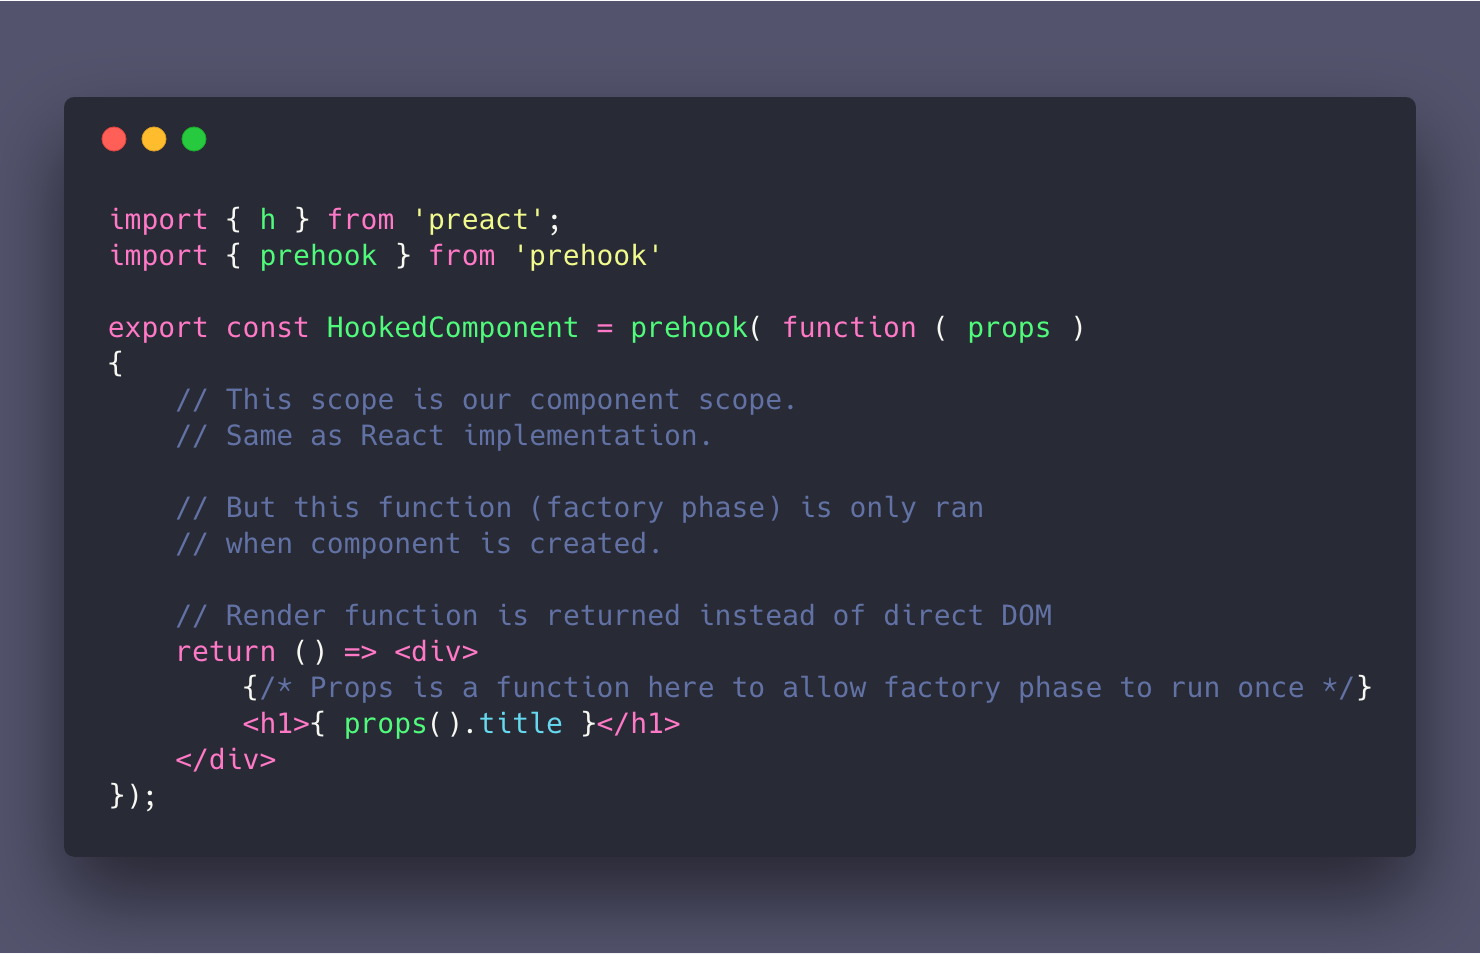
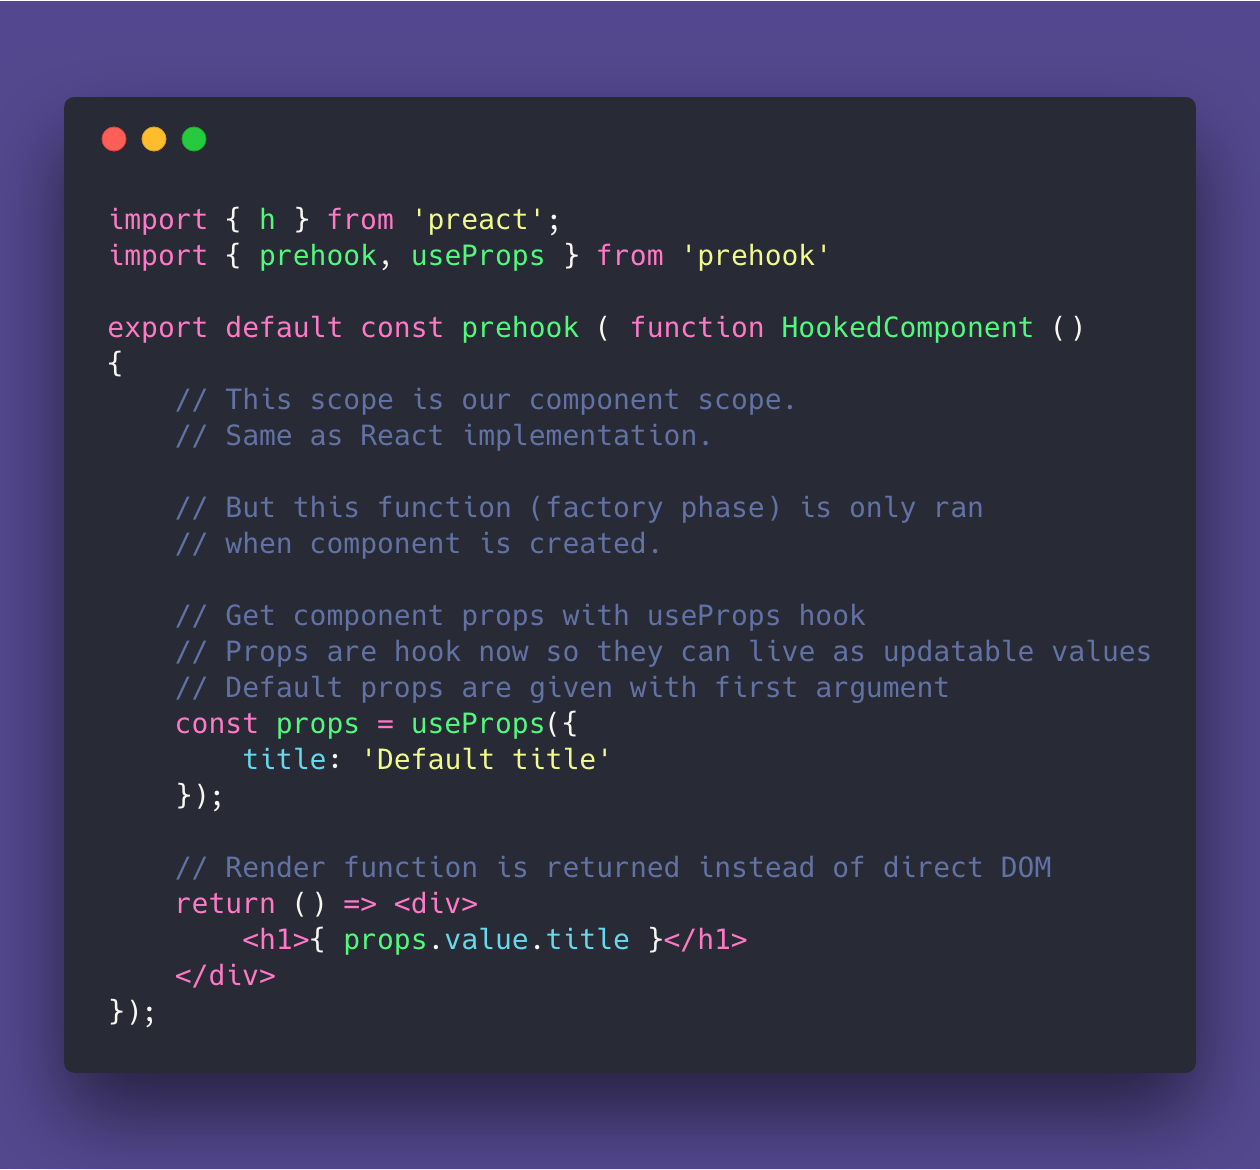
Working example of custom hooks and useProps

diff --git a/lib/prehook/prehook.ts b/lib/prehook/prehook.ts
@@ -55,28 +55,6 @@ interface IEffect
 	unmount	?: () => void
 }
 
-/**
- * To get current props and know when props are updated.
- */
-interface IGetProps <GProps>
-{
-	// Calling without argument will return the current props
-	// This is working like IUsedState
-	() : GProps
-
-	// Passing the name of a property as first argument
-	// Will return a function which will return property value when called.
-	// This is useful so effects know when a props change.
-	( propName ?: (keyof GProps) ) : (() => GProps)
-
-
-	// The returned used state from useState has a property
-	// named "value", which holds the current state as read-only.
-	// This is working like IUsedState
-	value ?: GProps
-}
-
-
 type IFactory <GProps> = (props : IGetProps<GProps>) => ( (...rest) => ComponentChildren );
 
 /**
@@ -86,6 +64,8 @@ type IFactory <GProps> = (props : IGetProps<GProps>) => ( (...rest) => Component
  */
 export function prehook <GProps = {}> ( factory : IFactory<GProps> ) : FunctionalComponent<GProps>
 {
+	// TODO : Terser is removing function name in production build.
+
 	// Get name from factory function name
 	const name = factory.name;
 
@@ -93,8 +73,8 @@ export function prehook <GProps = {}> ( factory : IFactory<GProps> ) : Functiona
 
 		// Create the prehook functional component
 		// Not as a class which extends Component
-		// This is the only way I found to set the component's name
-		[ name ] : function ( props )
+		// This is the only way I found to set the component's name dynamically
+		[ name ] : function ()
 		{
 			// List of effects associated to this component instance
 			let effects:IEffect[] = [];
@@ -140,38 +120,6 @@ export function prehook <GProps = {}> ( factory : IFactory<GProps> ) : Functiona
 
 
 			/**
-			 * Get props from factory and render
-			 */
-
-			// The getProps function to track properties from components
-			// See @IGetProps to know more about how it works
-			const getProps:IGetProps <GProps> = ( propName ?: keyof GProps ) => (
-
-				// If we have a property name as first argument
-				// This is to watch the property from effects.
-				( propName != null )
-
-				// So we return a function which gives the value of the property
-				? () => (getProps.value[ propName ])
-
-				// Otherwise (no first argument), we return the whole props object
-				: ( this.props || props )
-			);
-
-			// Set the value property on getProps for the first time
-			// We set it as first props of the component
-			getProps.value = props;
-
-			// When props will change
-			this.componentWillReceiveProps = (props) =>
-			{
-				// Update value on the getProps so components can get the new props
-				// without querying getProps()
-				getProps.value = props;
-			};
-
-
-			/**
 			 * Connecting hooks and init factory
 			 */
 
@@ -186,7 +134,7 @@ export function prehook <GProps = {}> ( factory : IFactory<GProps> ) : Functiona
 			// Here we call our component factory function
 			// with current scope and arguments.
 			// We save factory return as this render method so Preact can call it.
-			this.render = factory.call( this, getProps );
+			this.render = factory.call( this );
 
 			// Remove current hooked component reference
 			// now we are done with this factory
@@ -202,6 +150,105 @@ export function prehook <GProps = {}> ( factory : IFactory<GProps> ) : Functiona
 			return this.render.apply( this );
 		}
 	}[ name ];
+}
+
+
+// ----------------------------------------------------------------------------- USE PROPS
+
+/**
+ * To get current props and know when props are updated.
+ */
+interface IGetProps <GProps>
+{
+	// Calling without argument will return the current props
+	// This is working like IUsedState
+	() : GProps
+
+	// Passing the name of a property as first argument
+	// Will return a function which will return property value when called.
+	// This is useful so effects know when a props change.
+	( propName ?: (keyof GProps) ) : (() => keyof GProps)
+
+
+	// The returned used state from useState has a property
+	// named "value", which holds the current state as read-only.
+	// This is working like IUsedState
+	value ?: GProps
+}
+
+/**
+ * Inject default properties into actual property bag.
+ * Default props object does not need to satisfy all GProps interface but have
+ * to declare only props of it.
+ * @param defaultProps Default properties key and values.
+ * @param actualProps Actual properties to default. Will be mutated.
+ * @returns {GProps} Mutated and defaulted actualProps.
+ */
+function injectDefault <GProps> (defaultProps, actualProps) : GProps
+{
+	// NOTE : We allow mutation here because do not want to create a new
+	// props instance. We mutate it so it's going to component as if it was
+	// already with default values.
+
+	// Inject every default prop into actual props
+	// if this property key does not exists in actual props
+	Object.keys( defaultProps ).map( propKey =>
+	{
+		// Inject in actual props if key is not present
+		if ( !(propKey in actualProps) )
+			actualProps[ propKey ] = defaultProps[ propKey ];
+	});
+
+	// Return actual props so we can chain
+	return actualProps;
+}
+
+/**
+ * TODO
+ * @param {Partial<GProps>} defaultProps
+ * @returns {IGetProps<GProps>}
+ */
+export function useProps <GProps> ( defaultProps ?: Partial<GProps> )
+{
+	// Get current component and keep its ref in this scope
+	const component = getHookedComponent();
+
+	// Throw errors if useProps has already been used on this component
+	// Only on dev to exclude this code from production builds
+	if ( process.env.NODE_ENV !== 'production' )
+	{
+		( hookedComponent.componentWillReceiveProps != null )
+		&&
+		console.error(`Prehook error // useProps can only be used once by component.`);
+	}
+
+	// Returned get props function.
+	const getProps:IGetProps <GProps> = ( propName ? ) => (
+
+		// If we have a property name as first argument
+		// This is to watch the property from effects.
+		( propName != null )
+
+		// So we return a function which gives the value of the property
+		? () => getProps.value[ propName ]
+
+		// Otherwise (no first argument), we return the whole props object
+		: getProps.value as any // FIXME any ?
+	);
+
+	// Set the value property on getProps for the first time
+	// We set it as first props of the component
+	getProps.value = injectDefault<GProps>(defaultProps, component.props);
+
+	// Listen to new props from hooked component with componentWillReceiveProps
+	component.componentWillReceiveProps = (props:GProps) =>
+	{
+		// Update value on the getProps so components can get the new props
+		// without querying getProps()
+		getProps.value = injectDefault<GProps>(defaultProps, props);
+	};
+
+	return getProps;
 }
 
 

diff --git a/src/HookedComponent.tsx b/src/HookedComponent.tsx
@@ -1,6 +1,6 @@
 import './HookedComponent.less'
 import {ComponentChildren, h} from 'preact';
-import { prehook, useEffect, useState } from '../lib/prehook/prehook'
+import {prehook, useEffect, useProps, useState} from '../lib/prehook/prehook'
 import { useRef } from '../lib/prehook/useRef'
 
 // A quick utils to generate a an array of a random length
@@ -16,7 +16,7 @@ interface IProps
 	children			?: ComponentChildren
 }
 
-export default prehook <IProps> ( function HookedComponent ( props )
+export default prehook <IProps> ( function HookedComponent ()
 {
 	/**
 	 * 1. THE FACTORY PHASE
@@ -38,10 +38,16 @@ export default prehook <IProps> ( function HookedComponent ( props )
 	 * 2. ABOUT PROPS
 	 *
 	 * Because this factory phase is ran only once, accessing props changes would
-	 * be impossible. This is why props here is a function which gather props when called.
+	 * be impossible. This is why props are optionally gathered from useProps hook.
 	 *
 	 * -> props.value.color gives the color at any time (not only in factory phase scope !)
+	 *
+	 * First parameter of useProps is default props
 	 */
+	const props = useProps<IProps>({
+		defaultSuperProp: 0
+	});
+
 
 	/**
 	 * 3. USE STATE
@@ -59,8 +65,7 @@ export default prehook <IProps> ( function HookedComponent ( props )
 	 */
 	const clickState = useState({
 		// Here we get the default value from props
-		// 0 is the default value if defaultSuperProp is not defined.
-		superProp: props.value.defaultSuperProp || 0
+		superProp: props.value.defaultSuperProp
 	});
 
 	/**

diff --git a/src/CustomHookComponent2.tsx b/src/CustomHookComponent2.tsx
@@ -1,5 +1,5 @@
 import {h} from "preact";
-import {prehook} from "../lib/prehook/prehook";
+import {prehook, useProps} from "../lib/prehook/prehook";
 import {useWindowSize} from "./useWindowSize";
 
 
@@ -8,10 +8,15 @@ interface IProps
 	color: number|string;
 }
 
-export default prehook <IProps> ( function CustomHookComponent2 ( props )
+export default prehook <IProps> ( function CustomHookComponent2 ()
 {
 	// We use our custom hook to track window size
 	const windowSize = useWindowSize();
+
+	// Get props with default values
+	const props = useProps<IProps>({
+		color: 'black'
+	});
 
 	// Here returned render function is optimized to declare values
 	return () =>

diff --git a/lib/prehook/useRef.ts b/lib/prehook/useRef.ts
@@ -1,5 +1,7 @@
 import { getHookedComponent } from "./prehook";
 
+// TODO : add current and all props
+
 /**
  * TODO : DOC
  * TODO : Type
@@ -17,11 +19,8 @@ export function useRef ()
 	// Quickly add an effect on the current hooked component
 	// This will help us to know when the component is unmount.
 	getHookedComponent().addEffect({
-		unmount: () =>
-		{
-			// Kill nodes array so returned functions are annihilated
-			nodes = null;
-		}
+		// Kill nodes array so returned functions are annihilated
+		unmount: () => nodes = null
 	});
 
 	// We return a ref function.

diff --git a/src/App.tsx b/src/App.tsx
@@ -10,9 +10,8 @@ const getRandomColor = () => '#' + Math.floor( Math.random() * 16777215 ).toStri
 
 /**
  * Declare our App component as a Prehook component.
- * We use IProps to define which props are available on this component.
  */
-export default prehook ( function App ( props )
+export default prehook ( function App ()
 {
 	// We create a state to toggle HookedComponent visibility
 	// The default value of the state is true

diff --git a/src/CustomHookComponent.tsx b/src/CustomHookComponent.tsx
@@ -3,7 +3,7 @@ import {prehook} from "../lib/prehook/prehook";
 import {useWindowSize} from "./useWindowSize";
 
 
-export default prehook <{}> ( function CustomHookComponent ( props )
+export default prehook( function CustomHookComponent ()
 {
 	const windowSize = useWindowSize();
 

diff --git a/lib/prehook/useContext.ts b/lib/prehook/useContext.ts
@@ -1,0 +1,1 @@
+// TODO - Shared context

diff --git a/lib/prehook/useReducer.ts b/lib/prehook/useReducer.ts
@@ -1,0 +1,1 @@
+// TODO - Reducers

diff --git a/README.md b/README.md
@@ -12,8 +12,8 @@ React as a solution for patching performances with `useMemoization` and `useCall
 3. Also, the ["don't use hooks in conditions"](https://youtu.be/dpw9EHDh2bM?t=1942) is a problem to me. It shows that there is to much "auto-magic" stuff going on under the hood. Which is not aviced when you dive into a new lib / way of thinking. People need to understands how it works so it's not frustrating. And to me, linters should not be mandatory to use a lib, syntax have to be expressive and clear.
 
 ### Size
-For now the POC is **2KB not GZip** added to the Preact core with `useState`, `useEffect` and better `useRef`.
-This example is **15KB not GZip** with Preact + Prehook + working example.
+For now the POC is **less than 3KB (not GZip)** added to the Preact core with `useProps` `useState`, `useEffect` and a better `useRef`.
+This example is **16KB (not GZip)** with Preact + Prehook + working example.
 I plan to add `useReducer` and `useContext` as separated files (like `useRef`).
 
 ### Differences
@@ -24,6 +24,7 @@ I plan to add `useReducer` and `useContext` as separated files (like `useRef`).
 5. `useState` have a slightly different API. With more functional approach.
 6. Ref's are more usable with solo refs and multi-refs.
 7. `useEffect` update condition are on top of the declaration, before implementation. Small diff but cleaner and more readable code.
+8. Props are gathered and defaulted with `useProps` hook.
 
 No need for React's [useMemo](https://reactjs.org/docs/hooks-reference.html#usememo) and [useCallback](https://reactjs.org/docs/hooks-reference.html#usecallback) for example.
 Which help keep our apps **fast and simple**.
@@ -40,18 +41,23 @@ Thanks !
 
 The more important aspect of the lib, is the Factory phase and Render phase.
 Factory phase scope leak through all the component, but is called once.
+#### Factory and render
 ![Prehook Factory Render Example](img/1-prehook-factory-render.png)
 
-States differences.
+#### States differences.
 ![Prehook Use State Example](img/2-prehook-use-state.png)
 
-Use effect example.
+#### Use effect example.
 ![Prehook Use Effect Simple Example](img/3-prehook-use-effect-simple.png)
+( There is an example of effect watching a prop below )
 
-Use effect with optimized state example.
+#### Use effect with optimized state example.
 ![Prehook Use Effect and Use StateExample](img/4-prehook-use-effect-use-state.png)
 
-*More example to come ...*
+#### Custom hook
+
+Here is a custom hook implementation :
+- [useWindowSize.ts](https://github.com/solid-js/prehook-proof-of-concept/blob/master/src/useWindowSize.ts)
 
 
 ### Curious ?
@@ -70,6 +76,8 @@ The lib :
 
 
 ## Installation
+
+*Packages are installed automatically*
 
 ### Dev mode
 Will watch files and check Typescript.
